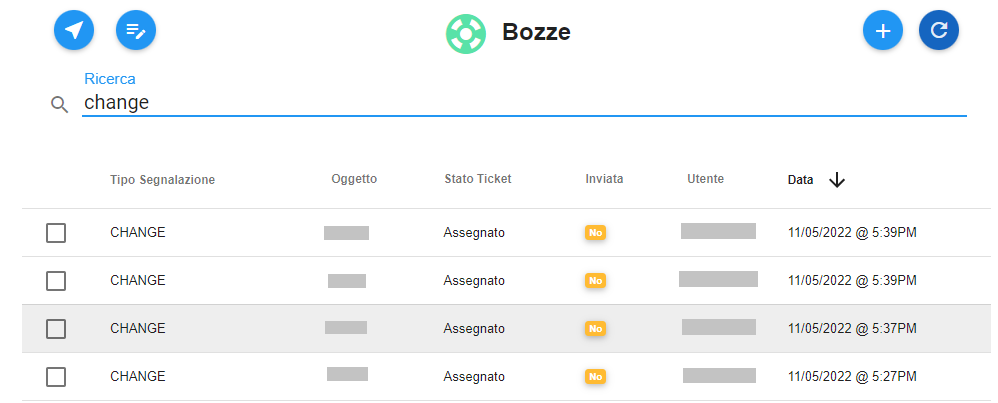
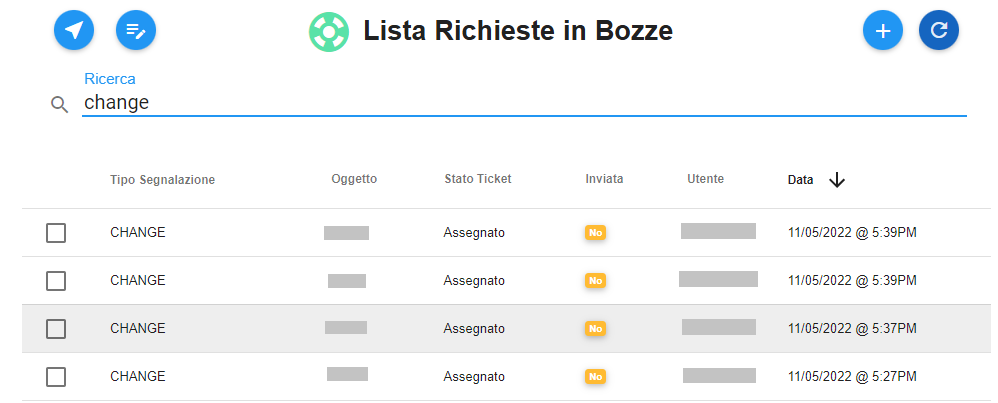
250226commit.1

Changed region(s): [[0.3106, 0.0298, 0.6834, 0.1489]]

diff --git a/docs/Come_fare_per/100.10_Cercare_E_Visualizzare_Ticket_inviato.rst b/docs/Come_fare_per/100.10_Cercare_E_Visualizzare_Ticket_inviato.rst
@@ -2,21 +2,24 @@
 **Cercare e visualizzare Ticket inviato**
 =========================================
 
-La funzione rientra nel **servizio assistenza**. Accedere alla lista dei tickets inviati cliccando sulla label **Richieste inviate** 
+La funzione rientra nel servizio **Assistenza**. Accedere alla lista dei tickets inviati cliccando sulla label **Richieste inviate** 
 sotto **Assistenza**:
 
 .. image:: img/100.5_Elenco_Ticket_inviatiSX.png
 
+|
 
-Il sistema popolerà la parte destra del video con l'elenco delle **Richieste inviate**:
+Il sistema popolerà la parte destra del video con la **Lista Richieste Inviate**:
 
 .. image:: img/100.5_ElencoTicketDX.png
+
+|
 
 All’interno di ciascun Account è possibile fare ricerche su tutti i ticket precedentemente inviati. 
 La ricerca è eseguita tramite una stringa inserita dall’operatore.
 Per eseguire una ricerca è necessario procedere in questo modo:
 
-1. Inserire la stringa da usare come chiave di ricerca sotto la label «Ricerca»: il sistema automaticamente popolerà lo schermo 
+1. Inserire la stringa da usare come chiave di ricerca sotto la label **Ricerca**: il sistema automaticamente popolerà lo schermo 
 con i ticket che soddisfano il criterio di selezione;
 
 .. image:: img/100.5_RicercaStringaTicketDX.png
@@ -25,16 +28,13 @@ con i ticket che soddisfano il criterio di selezione;
 
 .. image:: img/100.5_RicercaStringaTicketOkDX.png
     
-3. Usare il pulsante **Visualizza dettagli Ticket**;
+3. Usare il pulsante **Visualizza i dettagli della richiesta**;
+
+|
 
 .. image:: img/100.5_iconaDettagliTicket.png
 
-4. Verranno visualizzati le informazioni del ticket, contenute nel tab **RICHIESTA**;
+4. Verranno visualizzati le informazioni del ticket;
     
 .. image:: img/100.5_DettagliTicketTag1.png
-
-5. Eventuali informazioni aggiunte al ticket successivamente alla sua creazione sono presenti nel tag **NOTE AGGIUNTIVE**;
-
-.. image:: img/100.5_DettagliTicketTag2.png
-
-   
+  

diff --git a/docs/Come_fare_per/100.25_Cercare_E_Visualizzare_bozze.rst b/docs/Come_fare_per/100.25_Cercare_E_Visualizzare_bozze.rst
@@ -1,14 +1,14 @@
 
-**Cercare, visualizzare e inviare bozza**
+**Cercare, visualizzare e inviare bozze**
 =========================================
 
-La funzione rientra nel **servizio assistenza**. Accedere alla lista delle bozze cliccando sulla label **Bozze** 
+La funzione rientra nel servizio **Assistenza**. Accedere alla lista delle bozze cliccando sulla label **Bozze** 
 sotto **Assistenza**:
 
 .. image:: img/100.25_Elenco_BozzeSX.png
 
 
-Il sistema popolerà la parte destra del video con l'elenco delle **Bozze**:
+Il sistema popolerà la parte destra del video con l'elenco la **Lista Richieste in Bozze**:
 
 .. image:: img/100.25_ElencoBozzeDX.png
 
@@ -21,19 +21,25 @@ con le bozze che soddisfano il criterio di selezione;
 
 .. image:: img/100.25_RicercaStringaBozzeDX.png
 
+|
+
 2. Individuare la bozza dalla lista, mettendo una spunta a fianco del nome;
 
 .. image:: img/100.25_RicercaStringaBozzeOkDX.png
+
+!
     
-3. Usare il pulsante **Visualizza dettagli Ticket**;
+3. Usare il pulsante **Aggiorna richiesta**;
 
-.. image:: img/100.5_iconaDettagliTicket.png
+.. image:: img/100.25_AggiornaRichiesta.png
 
-4. Verranno visualizzate le informazioni della bozza, contenute nel tab **RICHIESTA**;
+!
+
+4. Verranno visualizzate le informazioni della bozza;
     
-.. image:: img/100.25_DettagliBozza.png
+.. image:: img/100.5_DettagliTicketTag1.png
 
-E' possibile integrare e/o modificare l'oggetto e la descrizione;
+E' possibile integrare e/o modificare le informazioni presenti;
 
 Utilizzando il tasto "**SALVA IN BOZZA**" è possibile salvare le modifiche: comparirà il seguente messaggio di conferma;
 

diff --git a/docs/Come_fare_per/100.42_Cambio_stato_ticket.rst b/docs/Come_fare_per/100.42_Cambio_stato_ticket.rst
@@ -1,12 +1,12 @@
 
-**Cambio di stato del ticket**
-==============================
+**Cambio di stato oppure Chiusura del ticket**
+==============================================
 
-La ricezione di una mail, simile alla seguente, con oggetto "**La segnalazione INC00000xxxxxxx e' ora in stato (nuovo stato)**"
+La ricezione di una mail, simile alla seguente, con oggetto "**Aggiornamento stato 2025-IM.... Account ....**"
 
 .. image:: img/100.45_Mail_ticket_nuovo_stato.png
 
-indica che il gruppo che aveva in carico il ticket ha modificato lo stato della richiesta.
+indica che il gruppo che aveva in carico il ticket ha modificato lo stato oppure ha chiuso la richiesta.
 
 Gli stati previsti sono i seguenti:
 
@@ -22,8 +22,10 @@ Gli stati previsti sono i seguenti:
 
 **ANNULLATO**
 
-E' possibile cercare tale richiesta utilizzando il numero del ticket **INC00000xxxxxxx** come chiave di ricerca da inserire sotto 
-la label «Ricerca» all'interno della lista dei **Tickets inviati**:
+|
+
+E' possibile cercare tale richiesta utilizzando il numero del ticket **2025xxxxxxx** come chiave di ricerca da inserire sotto 
+la label **Ricerca** all'interno della **Lista Richieste Inviate**:
 
 .. image:: img/100.45_RicercaStringaTicketDX.png
 
@@ -35,6 +37,8 @@ Usare il pulsante **Visualizza dettagli Ticket**:
 
 .. image:: img/100.5_iconaDettagliTicket.png
 
-Verranno visualizzate le informazioni del ticket, contenute nel tab **RICHIESTA** e se necessario **NOTE AGGIUNTIVE**.
+|
+
+Verranno visualizzate le informazioni del ticket:
 
 .. image:: img/100.42_DettagliTicketTag1.png

diff --git a/docs/Come_fare_per/100.55_Cercare_E_Visualizzare_Ticket.rst b/docs/Come_fare_per/100.55_Cercare_E_Visualizzare_Ticket.rst
@@ -8,6 +8,7 @@ sinistra dello schermo, sotto **Assistenza**:
 
 .. image:: img/100.50_Elenco_Tickets_apertiSX.png
 
+|
 
 A seguito di un clic su **Tickets aperti**, il sistema popolerà la parte destra del video con l'elenco dei **Tickets aperti**:
 
@@ -18,24 +19,21 @@ E' possibile fare ricerche su tutti i ticket precedentemente aperti da qualsiasi
 La ricerca è eseguita tramite una stringa inserita dall’operatore.
 Per eseguire una ricerca è necessario procedere in questo modo:
 
-1. Inserire la stringa da usare come chiave di ricerca sotto la label «Ricerca»: il sistema automaticamente popolerà lo schermo 
+1. Inserire la stringa da usare come chiave di ricerca sotto la label **Ricerca**: il sistema automaticamente popolerà lo schermo 
 con i ticket che soddisfano il criterio di selezione;
 
 .. image:: img/100.55_RicercaStringaTicketDX.png
-
 
 2. Individuare il ticket dalla lista, mettendo una spunta a fianco del nome;
 
 .. image:: img/100.55_RicercaStringaTicketOkDX.png
     
-3. Usare il pulsante **Visualizza dettagli Ticket**;
+3. Usare il pulsante **Visualizza i dettagli della richiesta**;
 
 .. image:: img/100.5_iconaDettagliTicket.png
 
-4. Verranno visualizzati le informazioni del ticket, contenute nel tab **RICHIESTA**;
+|
+
+4. Verranno visualizzati le informazioni del ticket;
     
 .. image:: img/100.5_DettagliTicketTag1.png
-
-5. Eventuali informazioni aggiunte al ticket successivamente alla sua creazione sono presenti nel tag **NOTE AGGIUNTIVE**;
-
-.. image:: img/100.5_DettagliTicketTag2.png

diff --git a/docs/Come_fare_per/100.15_Uso_filtri.rst b/docs/Come_fare_per/100.15_Uso_filtri.rst
@@ -5,15 +5,18 @@
 **Master di Account**
 *********************
 
-La funzione rientra nel **servizio assistenza**. Accedere alla lista dei tickets inviati cliccando sulla label **Tickets inviati** 
+La funzione rientra nel servizio **Assistenza**. Accedere alla lista dei tickets inviati cliccando sulla label **Richieste inviate** 
 sotto **Assistenza**:
 
 .. image:: img/100.5_Elenco_Ticket_inviatiSX.png
 
+|
 
-Il sistema popolerà la parte destra del video con l'elenco dei **Tickets inviati**:
+Il sistema popolerà la parte destra del video con la **Lista Richieste Inviate**:
 
 .. image:: img/100.5_ElencoTicketDX.png
+
+|
 
 Cliccare sul simbolo in alto a destra la cui descrizione passandoci sopra col mouse è **Mostra filtri**
 
@@ -32,6 +35,8 @@ Per modificare tali valori cliccare sulla freccia a destra in corrispondenza del
 .. image:: img/100.15_Filtro1freccia.png
 
 .. image:: img/100.15_Filtro1lista.png
+
+|
 
 E' possibile effettuare una ricerca per **cognome** dell'utente che ha aperto il ticket attraverso la prima voce **Inviata da..(cerca per cognome)**
 

diff --git a/docs/Come_fare_per/100.5_Elenco_Ticket_inviati.rst b/docs/Come_fare_per/100.5_Elenco_Ticket_inviati.rst
@@ -1,16 +1,18 @@
 
-**Elenco Ticket inviati**
-==========================
-La funzione rientra nel **servizio assistenza**. La lista delle **Richieste inviate** è attivabile dalla parte
+**Lista Richieste inviate**
+===========================
+La funzione rientra nel servizio **Assistenza**. La lista delle **Richieste inviate** è attivabile dalla parte
 sinistra dello schermo, cliccando sulla label **Richieste inviate** sotto **Assistenza**:
 
 .. image:: img/100.5_Elenco_Ticket_inviatiSX.png
 
+|
 
-A seguito di un clic su **Richieste inviate**, il sistema popolerà la parte destra del video con l'elenco dei **Lista Richieste inviate**:
+A seguito di un clic su **Richieste inviate**, il sistema popolerà la parte destra del video con la **Lista Richieste inviate**:
 
 .. image:: img/100.5_ElencoTicketDX.png
 
+|
 
 In caso di primo utilizzo della funzionalità la lista risulterà vuota, e in basso comparirà il messaggio "Non ci sono Richieste presenti":
 

diff --git a/docs/Come_fare_per/100.50_Tickets aperti.rst b/docs/Come_fare_per/100.50_Tickets aperti.rst
@@ -1,14 +1,13 @@
-.. _Tickets_aperti:
 
-**Tickets aperti**
-==================
-La funzione rientra nel **servizio assistenza**. La lista dei **Tickets aperti** è attivabile dalla parte
-sinistra dello schermo, sotto **Assistenza**:
+**Lista Richieste inviate**
+===========================
+La funzione rientra nel servizio **Assistenza**. La lista delle **Richieste inviate** è attivabile dalla parte
+sinistra dello schermo, cliccando sulla label **Richieste inviate** sotto **Assistenza**:
 
-.. image:: img/100.50_Elenco_Tickets_apertiSX.png
+.. image:: img/100.5_Elenco_Ticket_inviatiSX.png
 
 
-A seguito di un clic su **Tickets aperti**, il sistema popolerà la parte destra del video con l'elenco dei **Tickets aperti**:
+A seguito di un clic su **Richieste inviate**, il sistema popolerà la parte destra del video con la **Lista Richieste inviate**:
 
 .. image:: img/100.50_Elenco_Tickets_apertiDX.png
    

diff --git a/docs/Come_fare_per/100.20_Elenco_bozze.rst b/docs/Come_fare_per/100.20_Elenco_bozze.rst
@@ -1,13 +1,13 @@
 
 **Elenco bozze**
 ================
-La funzione rientra nel **servizio assistenza**. La lista delle **Bozze** è attivabile dalla parte
+La funzione rientra nel servizio **Assistenza**. La lista delle **Bozze** è attivabile dalla parte
 sinistra dello schermo, cliccando sulla label **Bozze** sotto **Assistenza**:
 
 .. image:: img/100.25_Elenco_BozzeSX.png
 
 
-A seguito di un clic su **Bozze**, il sistema popolerà la parte destra del video con l'elenco delle **Bozze**:
+A seguito di un clic su **Bozze**, il sistema popolerà la parte destra del video con l'elenco la **Lista Richieste in Bozze**:
 
 .. image:: img/100.25_ElencoBozzeDX.png
 

diff --git a/docs/Come_fare_per/900.0_Modifica_Account(ammBO)_soloPortale.rst b/docs/Come_fare_per/900.0_Modifica_Account(ammBO)_soloPortale.rst
@@ -40,7 +40,7 @@ Da questo tab è possibile visualizzare e modificare (attraverso i tasti "+" e d
 .. _Utenti:
 
 **Utenti**
-===========
+==========
 
 Da questo tab è possibile:
 
@@ -127,7 +127,7 @@ Da questo tab è possibile visualizzare l’eventuale presenza di codice-prodott
 .. _Forecast e Budget:
 
 **Forecast e Budget**
-============
+=====================
 
 La sezione del forecasting consente di simulare una previsione di andamento dei propri consumi in base 
 ai costi già registrati (funzionalità legata al ricalcolo dei costi).

diff --git a/docs/Come_fare_per/100.01_Assistenza_Master.rst b/docs/Come_fare_per/100.01_Assistenza_Master.rst
@@ -14,6 +14,5 @@ Attraverso questo menù è possibile aprire delle segnalazione relative ad anoma
    100.20_Elenco_bozze.rst
    100.25_Cercare_E_Visualizzare_bozze.rst
    100.35_Creare_nuovo_ticket.rst
-   100.40_Rispondere_richiesta_integrazione_informazioni.rst
    100.42_Cambio_stato_ticket.rst
-   100.45_Chiusura_Ticket.rst
+   

diff --git a/docs/Come_fare_per/100.02_Assistenza_ammBO.rst b/docs/Come_fare_per/100.02_Assistenza_ammBO.rst
@@ -10,4 +10,4 @@ Attraverso questo menù è possibile aprire delle segnalazione relative ad anoma
    100.50_Tickets aperti.rst
    100.55_Cercare_E_Visualizzare_Ticket.rst
    100.57_Uso_filtriAB.rst
-   100.60_Richiesta_integrazione_informazioni.rst
+   
